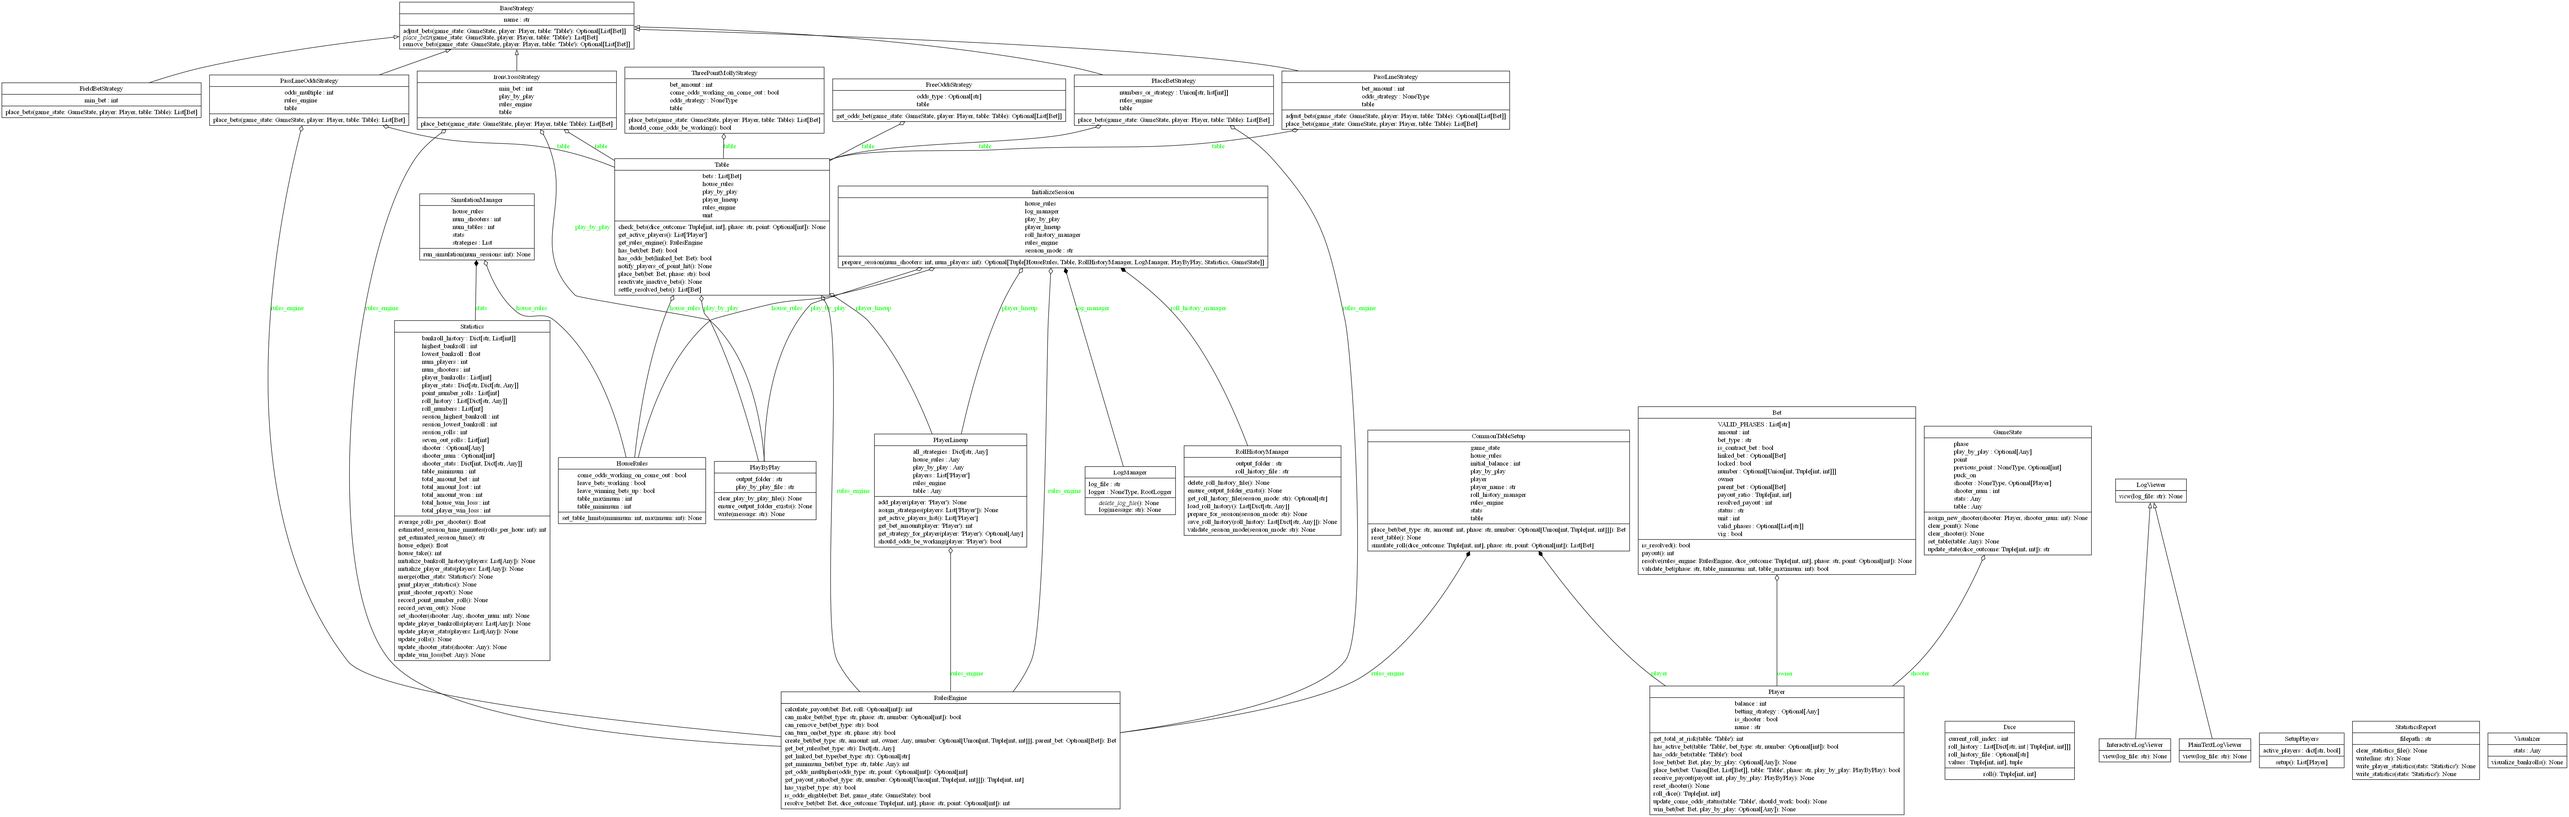
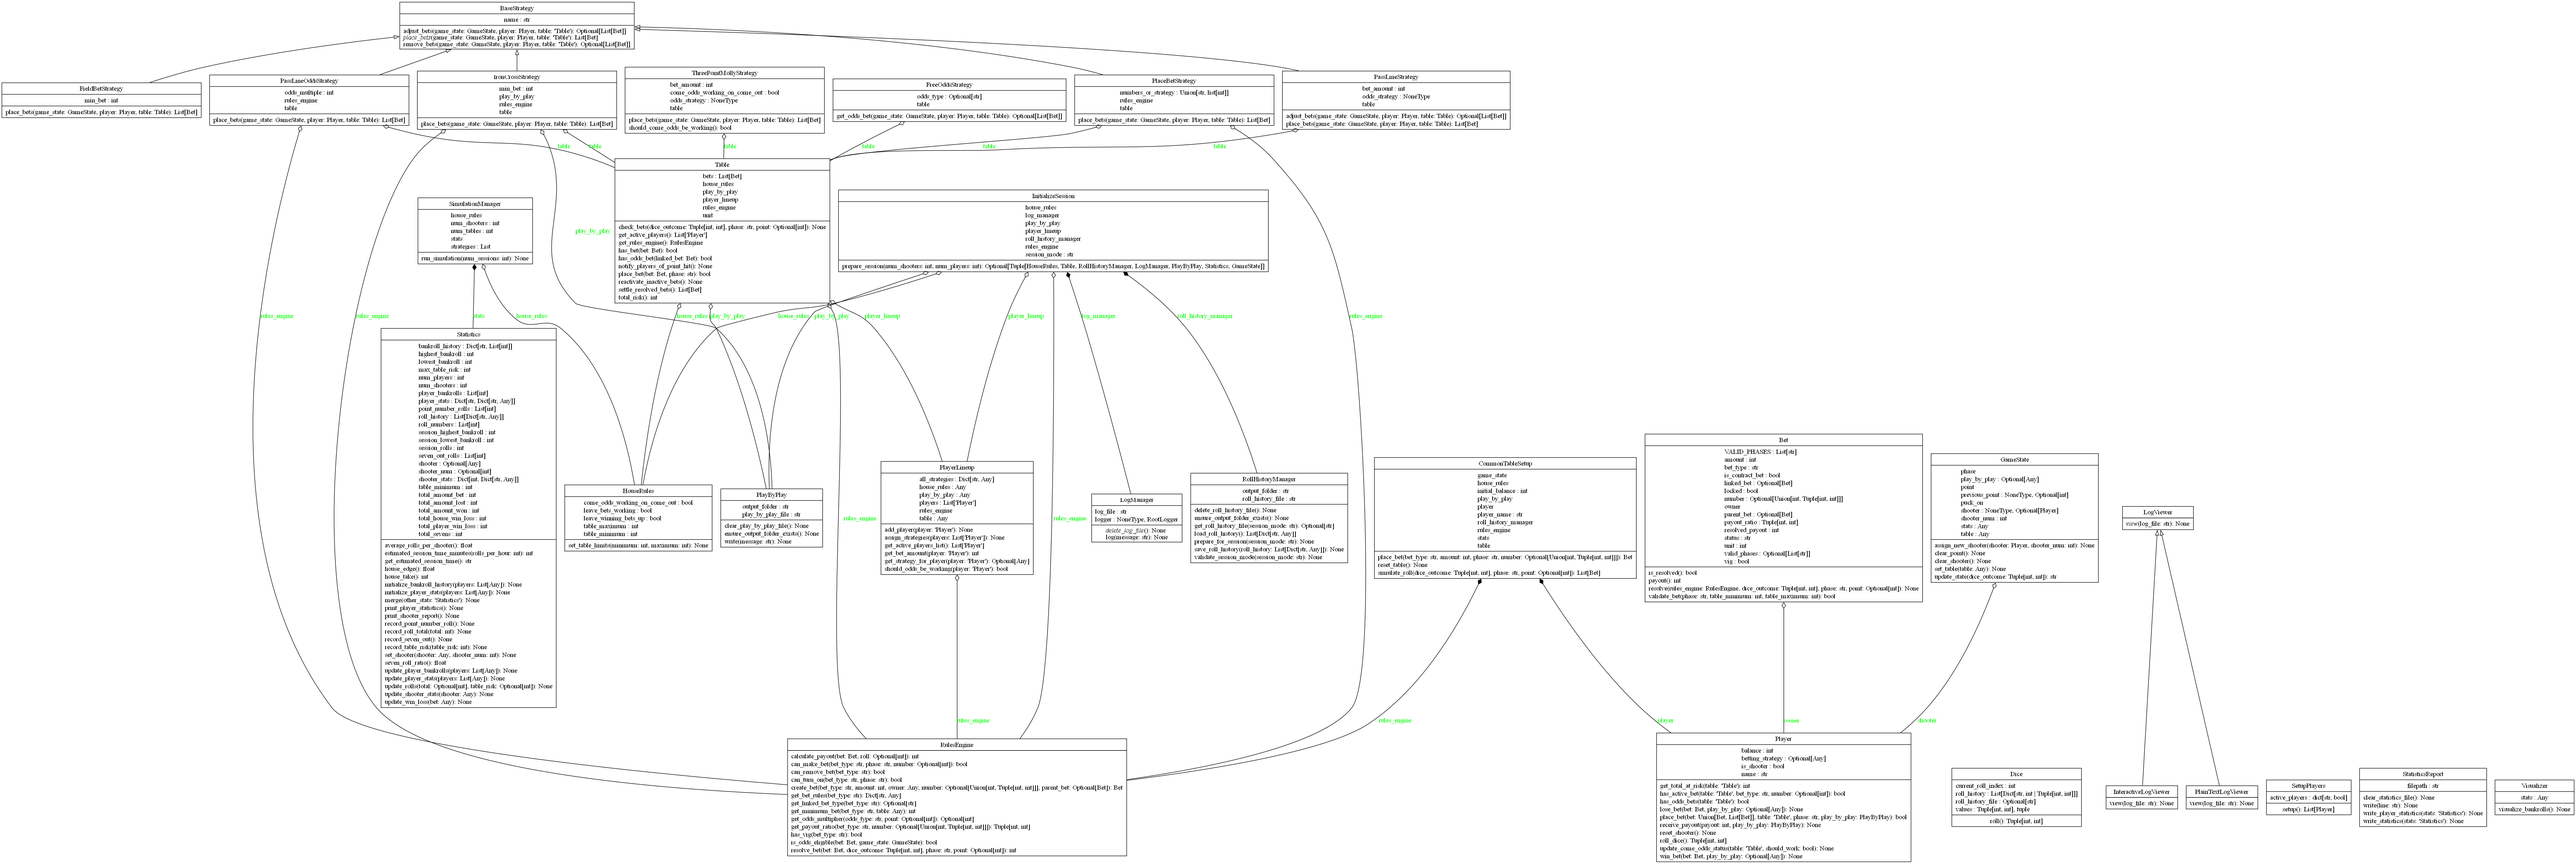
Added BigRed, SRR, & Max Risk stats

diff --git a/craps/statistics.py b/craps/statistics.py
@@ -13,12 +13,14 @@ class Statistics:
         self.total_amount_won: int = 0
         self.total_amount_lost: int = 0
         self.session_highest_bankroll: int = 0
-        self.session_lowest_bankroll: int = 1_000_000  # Arbitrary high value
+        self.session_lowest_bankroll: int = 1_000_000
         self.total_house_win_loss: int = 0
         self.total_player_win_loss: int = 0
         self.player_bankrolls: List[int] = []
         self.highest_bankroll: int = 0
-        self.lowest_bankroll: float = float('inf')
+        self.lowest_bankroll: int = 1_000_000
+        self.max_table_risk: int = 0
+        self.total_sevens: int = 0
         self.shooter_stats: Dict[int, Dict[str, Any]] = {}
         self.player_stats: Dict[str, Dict[str, Any]] = {}
         self.shooter: Optional[Any] = None
@@ -106,10 +108,17 @@ class Statistics:
                 self.bankroll_history[player] = []
             self.bankroll_history[player].extend(bankrolls)
 
-    def update_rolls(self) -> None:
-        """Increment the roll count."""
+    def update_rolls(self, total: Optional[int] = None, table_risk: Optional[int] = None) -> None:
+        """Increment the roll count and optionally record roll total and table risk."""
         self.session_rolls += 1
         self.roll_numbers.append(self.session_rolls)
+
+        if total == 7:
+            self.total_sevens += 1
+
+        if table_risk is not None:
+            self.max_table_risk = max(self.max_table_risk, table_risk)
+
 
     def update_win_loss(self, bet: Any) -> None:
         """
@@ -230,3 +239,15 @@ class Statistics:
             return f"{hours} hr"
         else:
             return f"{minutes} min"
+
+    def record_table_risk(self, table_risk: int) -> None:
+        self.max_table_risk = max(self.max_table_risk, table_risk)
+
+    def record_roll_total(self, total: int) -> None:
+        if total == 7:
+            self.total_sevens += 1
+
+    def seven_roll_ratio(self) -> float:
+        if self.session_rolls == 0:
+            return 0.0
+        return self.total_sevens / self.session_rolls

diff --git a/craps/statistics_report.py b/craps/statistics_report.py
@@ -23,6 +23,7 @@ class StatisticsReport:
         self.write(f"🎲 Session Rolls: {stats.session_rolls}")
         self.write(f"🧮 Rolls per Shooter: {stats.session_rolls / stats.num_shooters:.2f}")
         self.write(f"⏱ Estimated Session Time: {stats.get_estimated_session_time()}")
+        self.write(f"📉 Max Table Risk: ${stats.max_table_risk}")
         self.write(f"💸 Total Amount Bet: ${stats.total_amount_bet}")
         self.write(f"💰 Total Amount Won: ${stats.total_amount_won}")
         self.write(f"❌ Total Amount Lost: ${stats.total_amount_lost}")
@@ -30,6 +31,8 @@ class StatisticsReport:
         house_edge = ((stats.total_amount_lost - stats.total_amount_won) / stats.total_amount_bet * 100
                     if stats.total_amount_bet else 0.0)
         self.write(f"🎲 House Edge: {house_edge:.2f}%")
+        self.write(f"😈 Total 7s Rolled: {stats.total_sevens}")
+        self.write(f"🎯 7-Roll Ratio (SRR): {stats.seven_roll_ratio():.2f}")
         self.write(f"🔺 Highest Bankroll During Session: ${stats.session_highest_bankroll}")
         self.write(f"🔻 Lowest Bankroll During Session: ${stats.session_lowest_bankroll}")
         

diff --git a/craps/single_session.py b/craps/single_session.py
@@ -105,7 +105,7 @@ def run_single_session(
             # Roll the dice and resolve bets
             outcome = dice.roll()  # Now returns Tuple[int, int]
             total = sum(outcome)
-            stats.update_rolls()
+            stats.update_rolls(total=total, table_risk=table.total_risk())
             stats.update_shooter_stats(shooter)
 
             # Log the roll

diff --git a/craps/table.py b/craps/table.py
@@ -166,3 +166,7 @@ class Table:
             b for b in self.bets
             if b.bet_type.endswith("Odds") and b.linked_bet == linked_bet
         )
+
+    def total_risk(self) -> int:
+        """Calculate total amount risked on the table for the current roll."""
+        return sum(bet.amount for bet in self.bets)

diff --git a/config.py b/config.py
@@ -1,8 +1,8 @@
 # File: .\config.py
 
 ACTIVE_PLAYERS = {
-    "Pass-Line": False,
-    "Pass-Line w/ Odds": False,
+    "Pass-Line": True,
+    "Pass-Line w/ Odds": True,
     "$44 Inside": False,
     "$54 Across": False,
     "Field": True,
